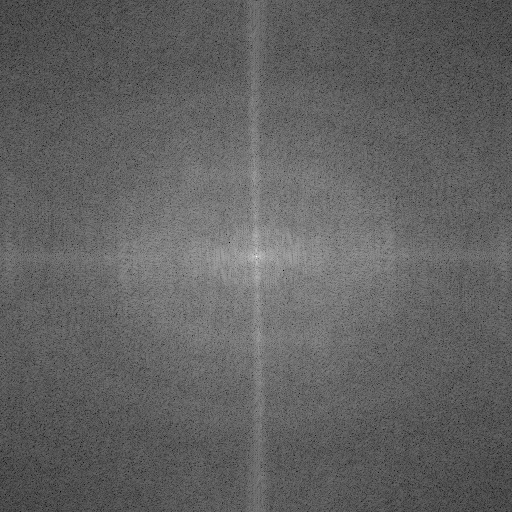
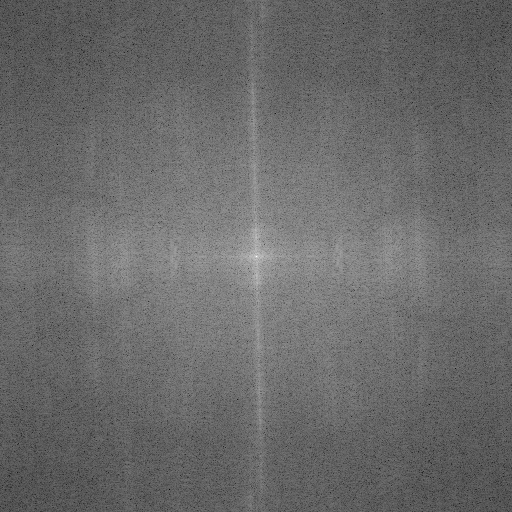
Initial commit of CertiScan project

Changed region(s): [[0.0, 0.0, 1.0, 1.0]]

diff --git a/RUN.py b/RUN.py
@@ -2,15 +2,16 @@ import cv2
 import os
 import subprocess
 import platform
-import numpy as np   # 🟢 مهم علشان نستخدم np.ones_like
+import numpy as np
 from ELA import ELAEngine
 from preprocessing import ImagePreprocessor
 from noise import NoiseAnalyzer
 from fft import FFTAnalyzer
-import masking       # 🟢 استدعاء الملف كله بدل from masking
+import masking
 
-def get_verdict(ela_score, noise_score, fft_score):
-    final_score = (0.4 * ela_score) + (0.3 * noise_score) + (0.3 * fft_score)
+def get_verdict(ela_score, noise_score, fft_score, masking_score):
+    # دخلنا الـ Masking Score في الحساب النهائي
+    final_score = (0.35 * ela_score) + (0.25 * noise_score) + (0.25 * fft_score) + (0.15 * masking_score["mean"])
     
     if final_score < 15:
         return f"✅ Excellent: Image is authentic (Final Score: {final_score:.2f}%)"
@@ -20,7 +21,6 @@ def get_verdict(ela_score, noise_score, fft_score):
         return f"⚠ Suspicious: Possible manipulation detected (Final Score: {final_score:.2f}%)"
     else:
         return f"❌ Forged: Clear signs of manipulation (Final Score: {final_score:.2f}%)"
-
 
 def open_image(path):
     try:
@@ -54,42 +54,48 @@ def main():
             print("Make sure the folder and file name are correct.")
             return
 
+        # ---------------- ELA ----------------
         ela_display, compressed, diff_raw = ela_engine.calculate_ela(img)
-        score = ela_engine.get_ela_score(diff_raw)
+        ela_score = ela_engine.get_ela_score(diff_raw)
 
+        # ---------------- Preprocessing ----------------
         img_processed = preprocessor.preprocess(IMAGE_PATH)
         img_gray = cv2.cvtColor(img_processed, cv2.COLOR_RGB2GRAY)
 
+        # ---------------- Noise Analysis ----------------
         noise_analyzer = NoiseAnalyzer()
         noise_map, suspicious_map = noise_analyzer.analyze_noise(img_gray)
         noise_score = noise_analyzer.get_noise_score(noise_map)
 
+        # ---------------- FFT Analysis ----------------
         fft_analyzer = FFTAnalyzer()
         fft_map = fft_analyzer.analyze_fft(img_gray)
         fft_score = fft_analyzer.get_fft_score(fft_map)
 
-        # 🟢 خطوة الـ Masking & Scoring
-        mask = np.ones_like(fft_map)   # ماسك بسيط يغطي الصورة كلها
+        # ---------------- Masking ----------------
+        mask = masking.create_mask(fft_map, threshold=0.6)
         masked = masking.apply_mask(fft_map, mask)
-        masking_score = masking.calculate_score(masked)
-        print(f"Final Score (Masking): {masking_score:.2f}")
+        masking_score = masking.calculate_score(masked, mask)
 
+        # ---------------- Results ----------------
+        print("\n" + "="*45)
+        print(f"Analyzing: {os.path.basename(IMAGE_PATH)}")
+        print(f"ELA Score:   {ela_score:.2f}%")
+        print(f"Noise Score: {noise_score:.2f}%")
+        print(f"FFT Score:   {fft_score:.2f}%")
+        print(f"Mask Scores: Mean={masking_score['mean']:.2f}, Max={masking_score['max']}, Var={masking_score['variance']:.2f}")
+        print(f"Verdict: {get_verdict(ela_score, noise_score, fft_score, masking_score)}")
+        print("="*45)
+
+        # ---------------- Save Results ----------------
         base_name = os.path.basename(IMAGE_PATH).split('.')[0]
         output_filename = f"{base_name}_ela_result.jpg"
         output_path = os.path.join(OUTPUT_DIR, output_filename)
 
-        print("\n" + "="*45)
-        print(f"Analyzing: {os.path.basename(IMAGE_PATH)}")
-        print(f"ELA Score:   {score:.2f}%")
-        print(f"Noise Score: {noise_score:.2f}%")
-        print(f"FFT Score:   {fft_score:.2f}%")
-        print(f"Verdict: {get_verdict(score, noise_score, fft_score)}")
-        print("="*45)
-
         cv2.imwrite(output_path, cv2.cvtColor(ela_display, cv2.COLOR_RGB2BGR))
         cv2.imwrite("temp/suspicious_map.jpg", suspicious_map)
         cv2.imwrite("temp/noise_map.jpg", noise_map)
-        cv2.imwrite("temp/fft_map.jpg", fft_map)    
+        cv2.imwrite("temp/fft_map.jpg", fft_map)
         print(f"✅ Result saved as: {output_path}")
 
         open_image(output_path)

diff --git a/masking.py b/masking.py
@@ -1,11 +1,43 @@
 import numpy as np
 
+def normalize_image(image):
+    """
+    Normalize image values between 0 and 1
+    """
+    image = image.astype(np.float32)
+    return (image - np.min(image)) / (np.max(image) - np.min(image) + 1e-8)
+
+def create_mask(image, threshold=0.6):
+    """
+    Create a binary mask based on threshold
+    """
+    normalized = normalize_image(image)
+    mask = normalized > threshold
+    return mask.astype(np.uint8)
+
 def apply_mask(image, mask):
-  
-    return np.multiply(image, mask)
+    """
+    Apply mask to highlight suspicious regions
+    """
+    masked = np.multiply(image, mask)
+    return masked
 
-def calculate_score(masked_image):
-    
-    return np.mean(masked_image)
+def calculate_score(masked_image, mask=None):
+    """
+    Calculate statistics based only on masked region
+    Returns mean, max, min, variance
+    """
+    if mask is not None:
+        masked_pixels = masked_image[mask > 0]
+    else:
+        masked_pixels = masked_image.flatten()
 
+    if masked_pixels.size == 0:
+        return {"mean": 0.0, "max": 0, "min": 0, "variance": 0.0}
 
+    return {
+        "mean": float(np.mean(masked_pixels)),
+        "max": int(np.max(masked_pixels)),
+        "min": int(np.min(masked_pixels)),
+        "variance": float(np.var(masked_pixels))
+    }
